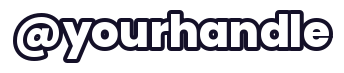
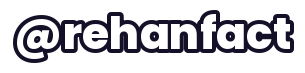
OyoSecret final: @rehanfact watermark, post.md, notes
Claude-Session: https://claude.ai/code/session_011UkKeejvTgTSqV9JUXBvi2

diff --git a/NOTES.md b/NOTES.md
@@ -73,7 +73,8 @@
   + coin rain -> transfers list counting 2,500 -> AI chat "HO GAYA / KISI KO MAT BATANA" -> unknown call, red rays, "PAISA HUMARA
   HAI", "10% TUMHARA" -> A cyber cell + bank / B money flies to hooded scammer / C app into trash / D party -> outro + follow.
   Answer A. Handle placeholder. night.tsx moved to src/lib/night.tsx (shared).
-- `OyoSecret` (src/videos/OyoSecret): STAGE 1 BUILT, waiting for fixes or "go to final".
+- `OyoSecret` (src/videos/OyoSecret): FINAL DONE (2026-11-17). out/oyosecret_final.mp4: 36.1 s, -14.0 LUFS, TP -2.7 dBTP,
+  watermark @rehanfact (public/watermark.png now = @rehanfact). Caption + pinned comment in post.md. Part 2: answer A.
   Recording matches script.md. Voice 43.1 s -> 34.3 s clean; allosaurus-align 110 words, "A" corrected to f641 from the
   pause file (aligner had put it on top of "the"). ~1084 f. Music: loop.wav.
   Scenes: hotel lobby (neon ROOMS 24x7, key rack, counter + bell): girlfriend left, you right, Chachu at reception turns round on

diff --git a/src/videos/OyoSecret/post.md b/src/videos/OyoSecret/post.md
@@ -1,0 +1,20 @@
+# OyoSecret — post
+
+## Caption
+Raat 10 baje girlfriend ke saath OYO pahunche… aur reception pe Chachu khade the. 😳
+Ghar mein sab sochte hain Chachu office mein manager hain, par unki naukri 3 mahine pehle chali gayi.
+"Tu kuch mat bolna, main bhi kuch nahi bolunga."
+Agle din dinner pe Papa ne poocha: "Kal raat kahan the?"
+A) Sirf apna sach bolo
+B) Dono ka sach bol do
+C) Chup raho, dono raaz rakho
+D) Chachu ka raaz bolo, apna chhupao
+
+Tum kya karoge? Comment mein sirf letter likho 👇 Answer next reel mein.
+Follow @rehanfact for Part 2.
+(Yeh ek fictional kahani hai.)
+
+#oyo #familydrama #dilemma #hinglish #reelsindia #desifamily
+
+## Pinned comment
+Socho: kiska raaz kiska hai? 🤐 Apna letter + ek line mein reason likho. Sabse samajhdaar reason ko Part 2 mein pin karenge! 🔔 Follow @rehanfact, warna answer miss ho jayega.
